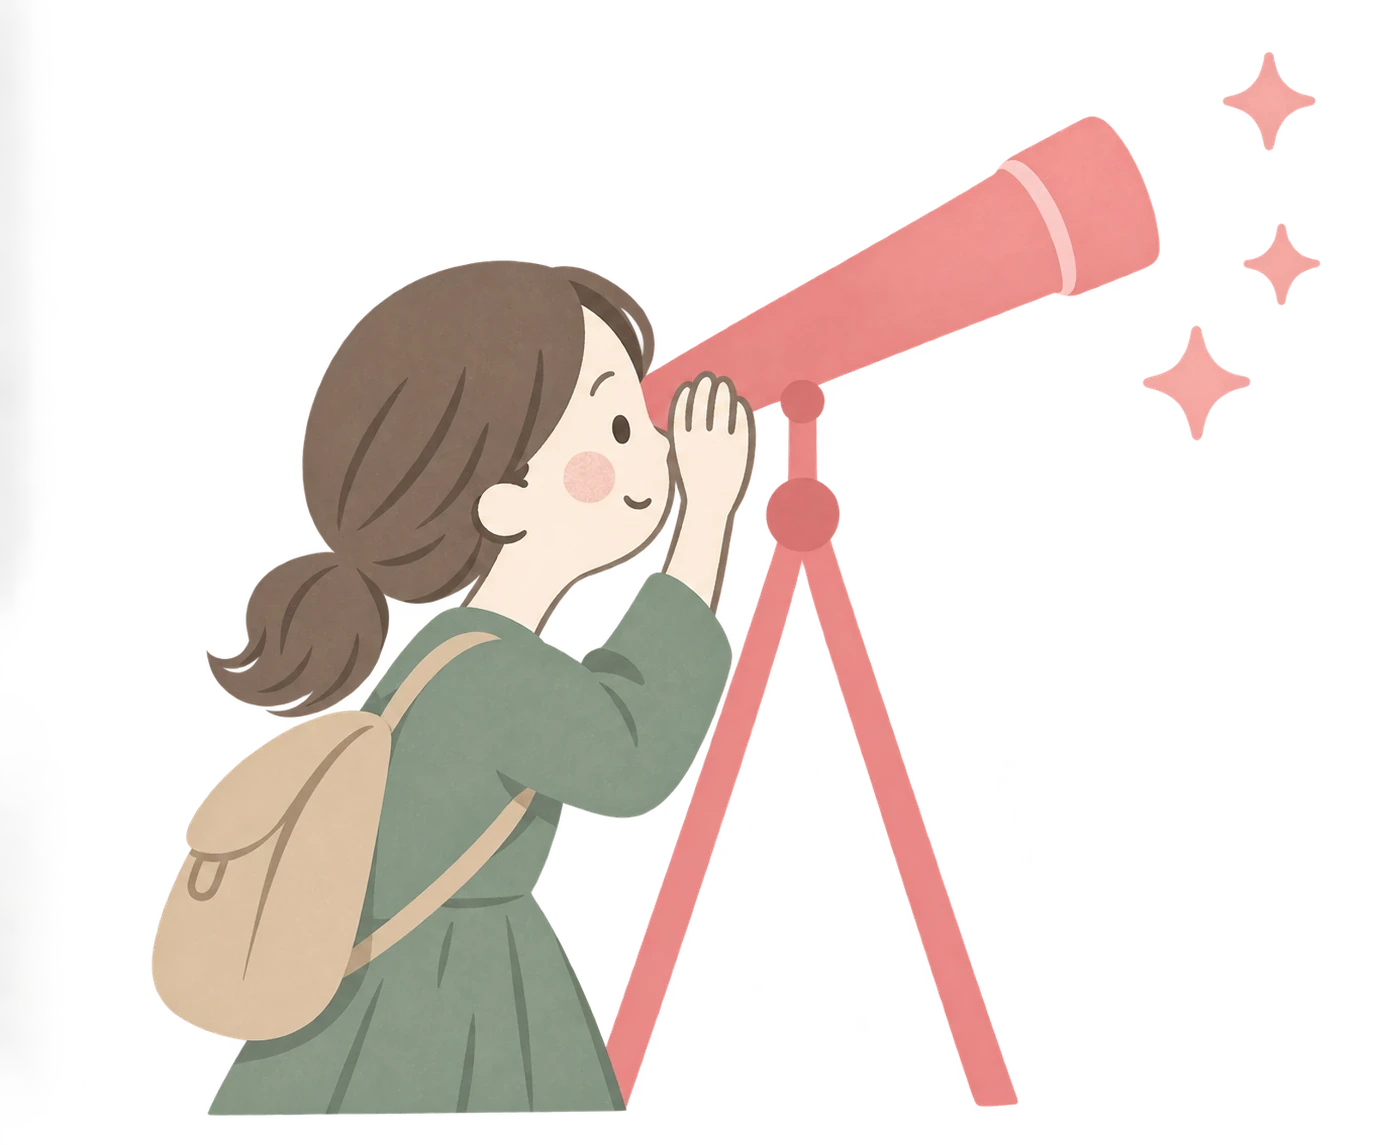
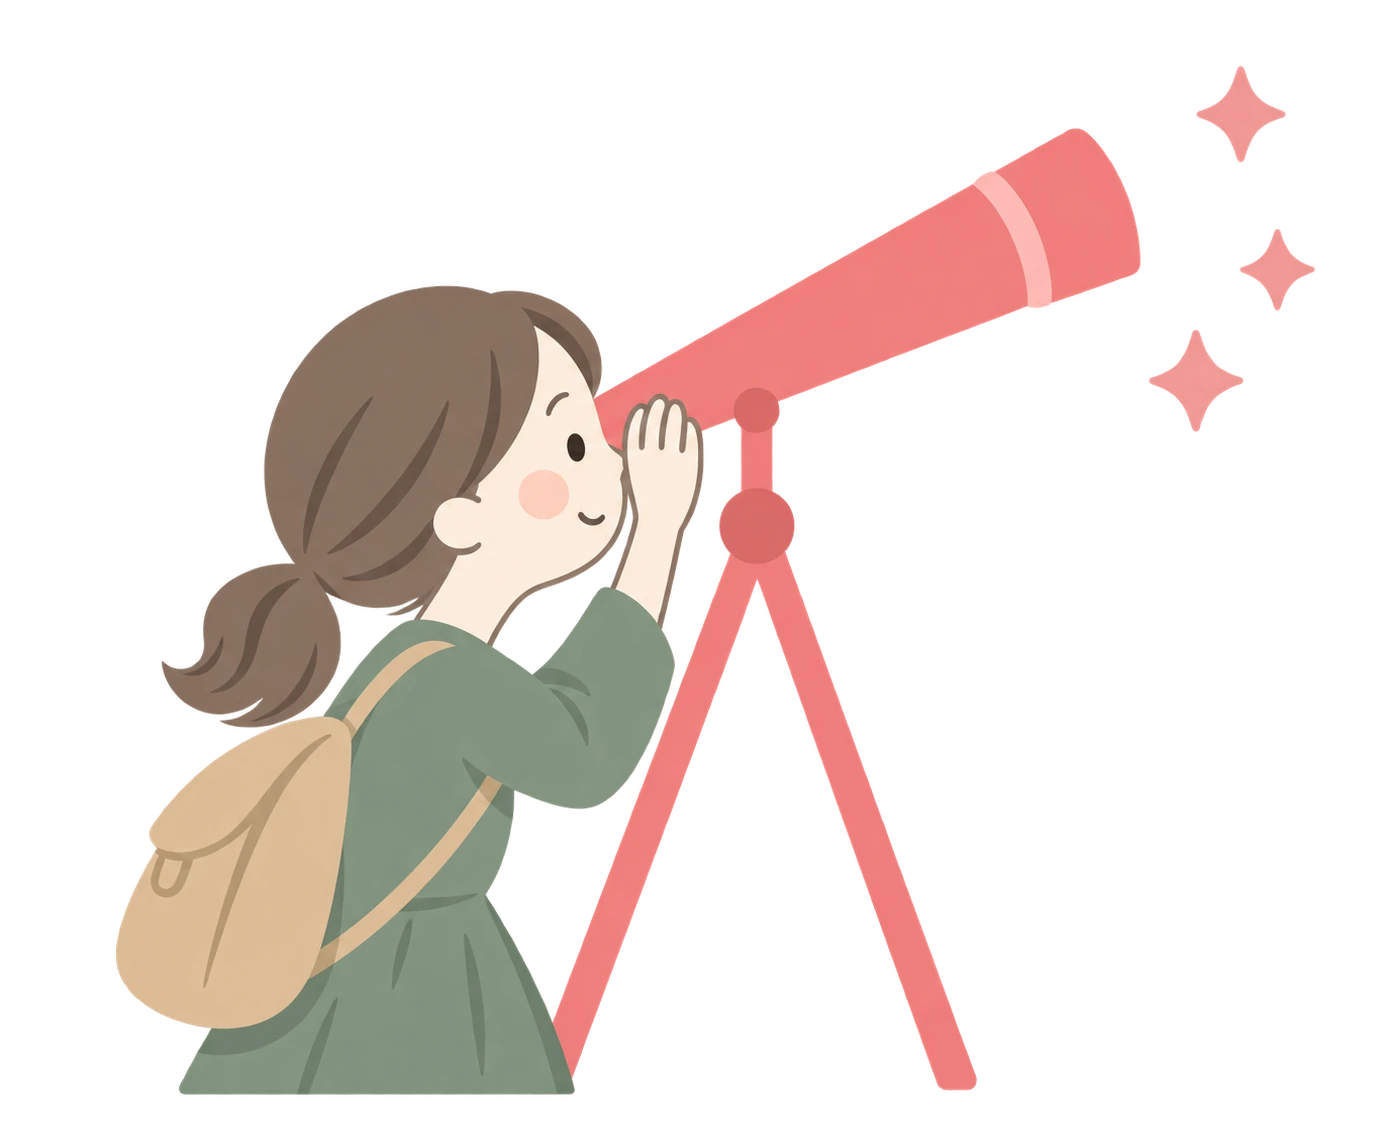
1〜3枚目の細部調整（サイズ・位置・吹き出し・テキスト枠）
- 1枚目: しおりちゃんの画像をより高品質なものに差し替え、1.25倍に拡大
- 2枚目: 吹き出しをしおりちゃんの真上・中央寄りに移動（本文・頭と重ならない
  範囲でサイズ調整）
- 3枚目: しおりちゃんをカード高さの半分ほどまで拡大し、左端の余白を1枚目の
  写真と同じ幅に、足元がカード下端に接するよう再配置。本文の開始位置も
  カード幅の半分あたりまで広げた

Claude-Session: https://claude.ai/code/session_01CzAAbqwjMQDVvC4b2hQ5pv

diff --git a/src/app/instagram-studio/studio.module.css b/src/app/instagram-studio/studio.module.css
@@ -111,7 +111,7 @@
 .coverImage { width: 100%; height: 100%; object-fit: cover; display: block; }
 .coverBubble { position: absolute; z-index: 4; top: 34px; left: 34px; width: 500px; height: auto; filter: drop-shadow(0 10px 18px rgba(44, 38, 32, 0.18)); }
 .coverCopy { display: flex; align-items: flex-end; gap: 30px; margin-top: 20px; padding: 0 74px; }
-.coverGirl { width: 190px; height: auto; flex-shrink: 0; filter: drop-shadow(0 8px 12px rgba(44, 38, 32, 0.14)); }
+.coverGirl { width: 238px; height: auto; flex-shrink: 0; filter: drop-shadow(0 8px 12px rgba(44, 38, 32, 0.14)); }
 .category { display: inline-block; padding: 10px 24px; border-radius: 999px; background: #e3ebe4; color: #2d4a3c; font-size: 24px; font-weight: 700; }
 .coverCopy h2 { max-width: 700px; margin-top: 24px; white-space: pre-line; line-height: 1.32; letter-spacing: 0.02em; font-weight: 700; }
 
@@ -131,36 +131,36 @@
 .speechBubble {
   position: absolute;
   z-index: 3;
-  right: 60px;
-  bottom: 270px;
-  max-width: 380px;
-  padding: 28px 34px;
+  left: 20px;
+  bottom: 477px;
+  max-width: 480px;
+  padding: 18px 26px;
   background: #fbe1de;
-  border-radius: 30px;
+  border-radius: 26px;
   box-shadow: 0 10px 24px rgba(44, 38, 32, 0.1);
   color: #2c2620;
-  font-size: 34px;
+  font-size: 28px;
   font-weight: 700;
-  line-height: 1.5;
+  line-height: 1.4;
   white-space: pre-line;
 }
 .speechBubble::after {
   content: "";
   position: absolute;
-  left: 56px;
+  left: 50%;
   bottom: -12px;
   width: 26px;
   height: 26px;
   background: inherit;
   border-radius: 0 0 6px 0;
-  transform: rotate(45deg);
+  transform: translateX(-50%) rotate(45deg);
 }
 
 .thinkingGirlWrap { position: absolute; z-index: 2; left: 30px; bottom: -8px; width: 440px; }
 .thinkingGirl { width: 100%; height: auto; display: block; filter: drop-shadow(0 10px 18px rgba(44, 38, 32, 0.16)); }
 
-.feelingMessage { margin-top: 60px; margin-left: 520px; max-width: 460px; white-space: pre-line; line-height: 1.75; }
-.feelingGirlWrap { position: absolute; z-index: 2; left: 30px; bottom: 0; width: 562px; }
+.feelingMessage { margin-top: 60px; margin-left: 446px; max-width: 460px; white-space: pre-line; line-height: 1.75; }
+.feelingGirlWrap { position: absolute; z-index: 2; left: -159px; bottom: -163px; width: 705px; }
 .feelingGirl { width: 100%; height: auto; display: block; filter: drop-shadow(0 8px 14px rgba(44, 38, 32, 0.14)); }
 
 .cornerImageWrap { position: absolute; right: -55px; bottom: -45px; width: 390px; height: 390px; border-radius: 50% 0 0 0; overflow: hidden; opacity: 0.92; }
